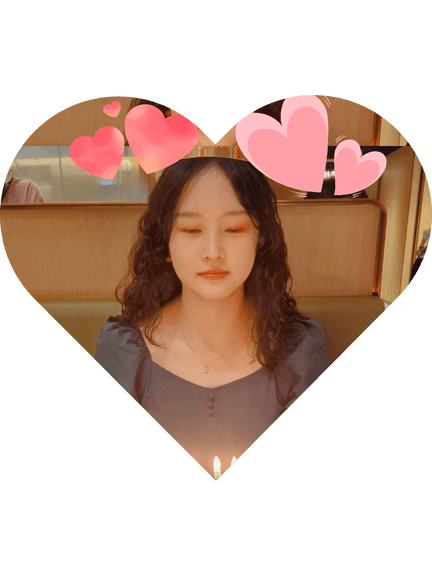
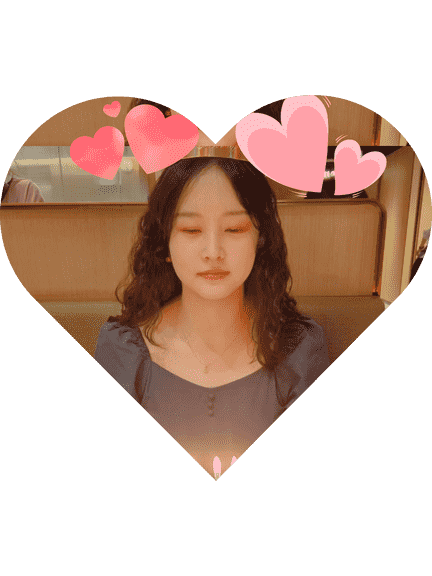
修改

diff --git a/index.html b/index.html
@@ -142,14 +142,14 @@
 
 <img src="./sucai/yanhua/moon.png" alt="" id="moon" style="visibility: hidden;" />
 <div style="display:none">
+    <!-- <div class="shape">
+        <img src="https://wany5.github.io/sucai/love/lover/1x4.png" alt="">
+    </div> -->
     <div class="shape">
-        <img src="https://wany5.github.io/sucai/love/lover/1x2.png" alt="">
+        <img src="https://wany5.github.io/sucai/love/lover/2x3.png" alt="">
     </div>
     <div class="shape">
-        <img src="https://wany5.github.io/sucai/love/lover/2x2.png" alt="">
-    </div>
-    <div class="shape">
-        <img src="https://wany5.github.io/sucai/love/lover/3x2.png" alt="">
+        <img src="https://wany5.github.io/sucai/love/lover/3x3.png" alt="">
     </div>
     <!-- <div class="shape">
         <img width="100" src="./sucai/love/lover/1.png" alt="">
@@ -244,11 +244,11 @@
                 setTimeout(function() {
                     $('.success').addClass('hide-model')
                     $('.see').removeClass('hide-model')
-                }, 5000)
+                }, 3000)
                 setTimeout(function() {
                     $('.see').addClass('hide-model')
                     seeYanHua()
-                }, 10000)
+                }, 6000)
             } else {
                 $('.login').addClass('hide-model')
                 $('.error').removeClass('hide-model')
